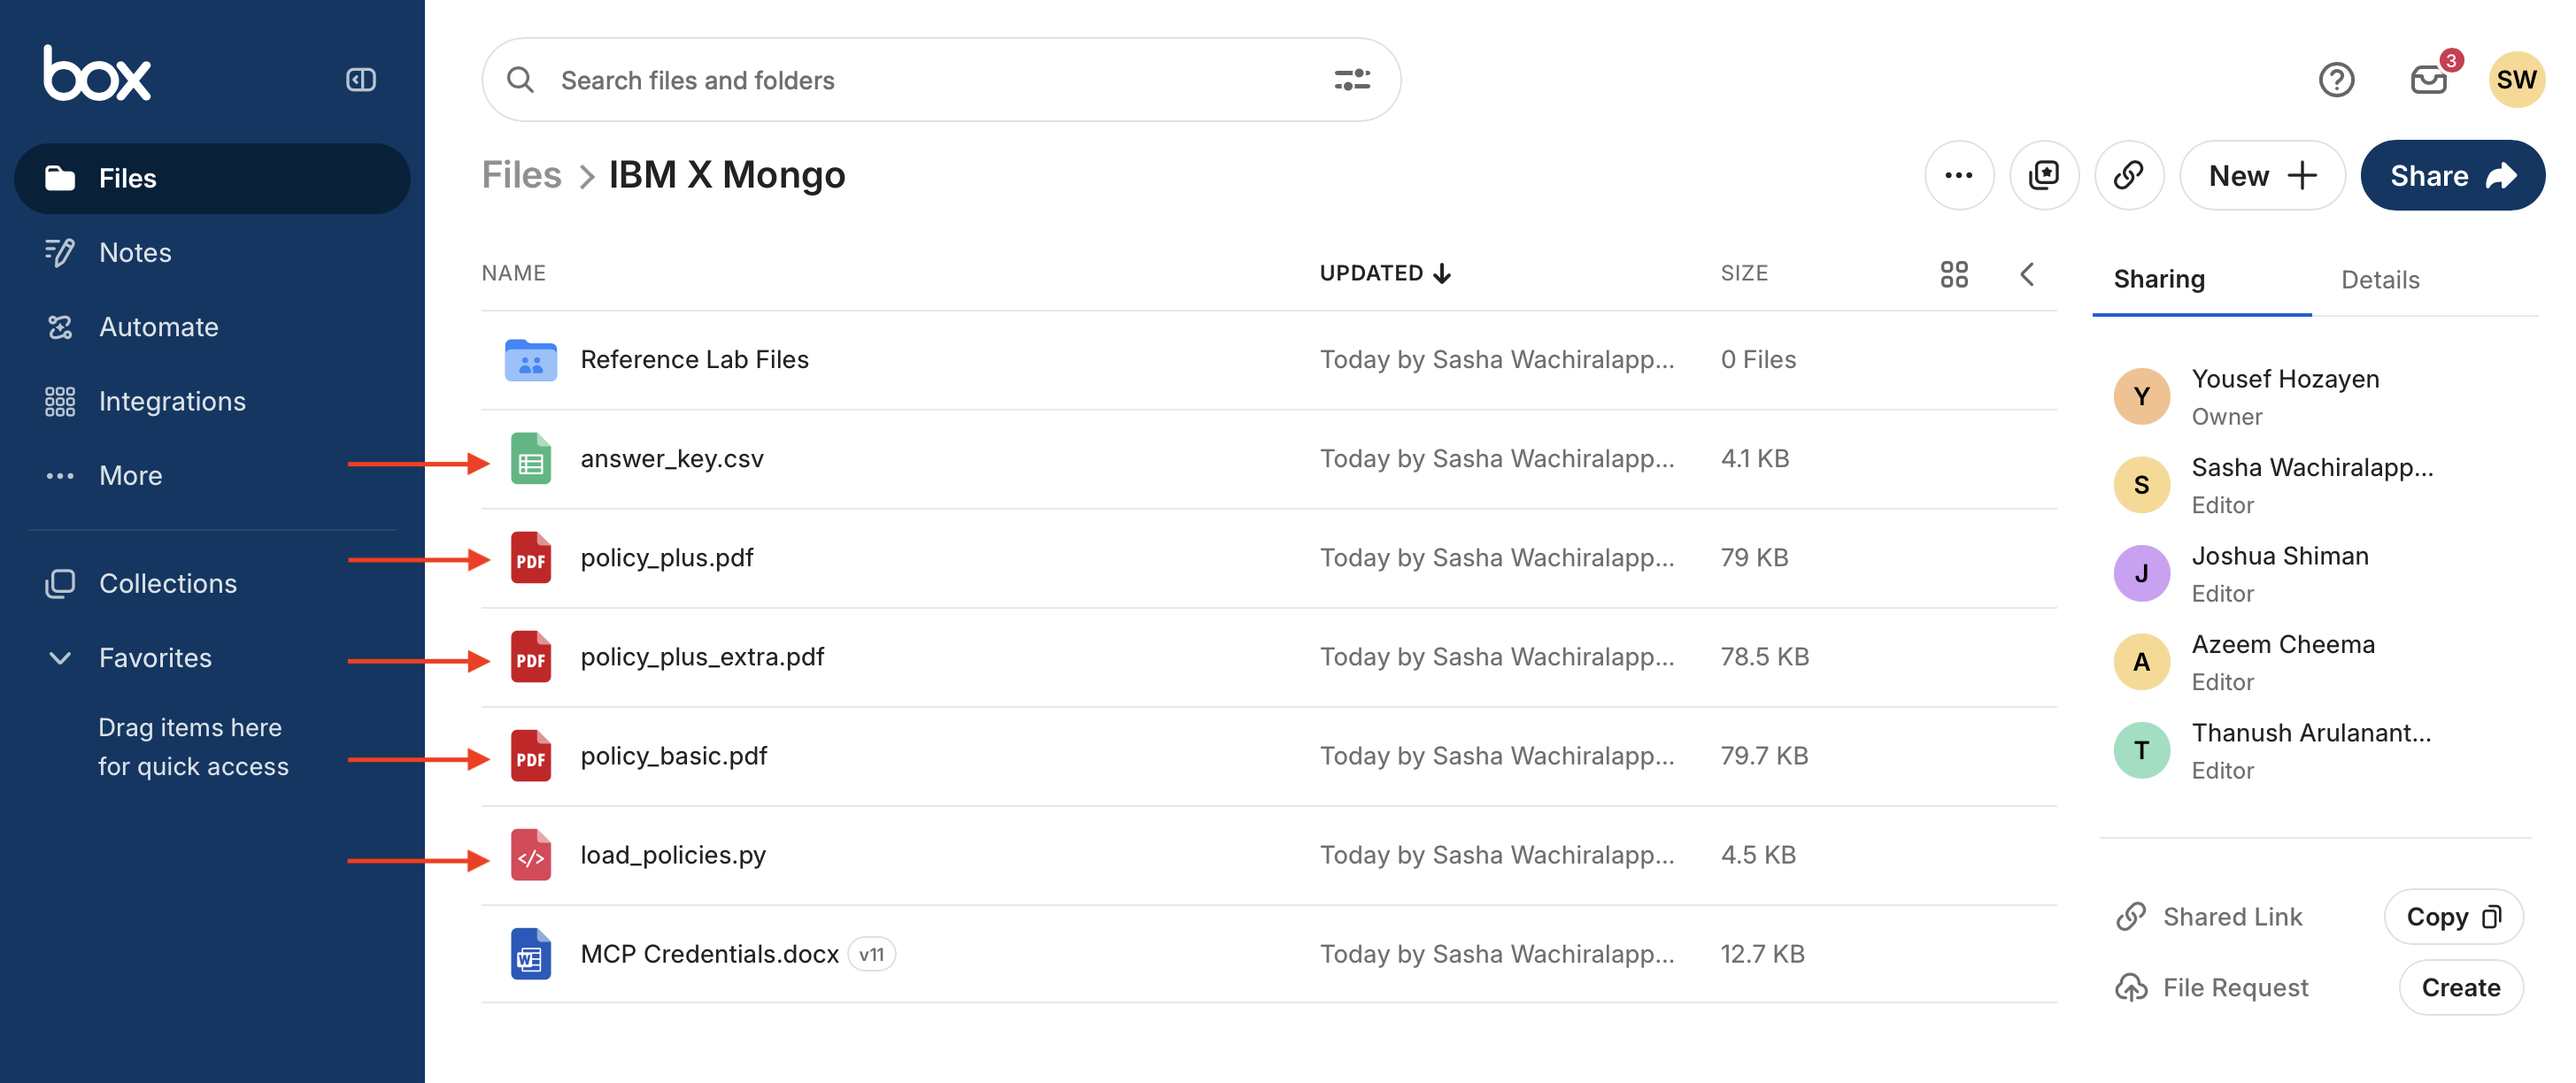
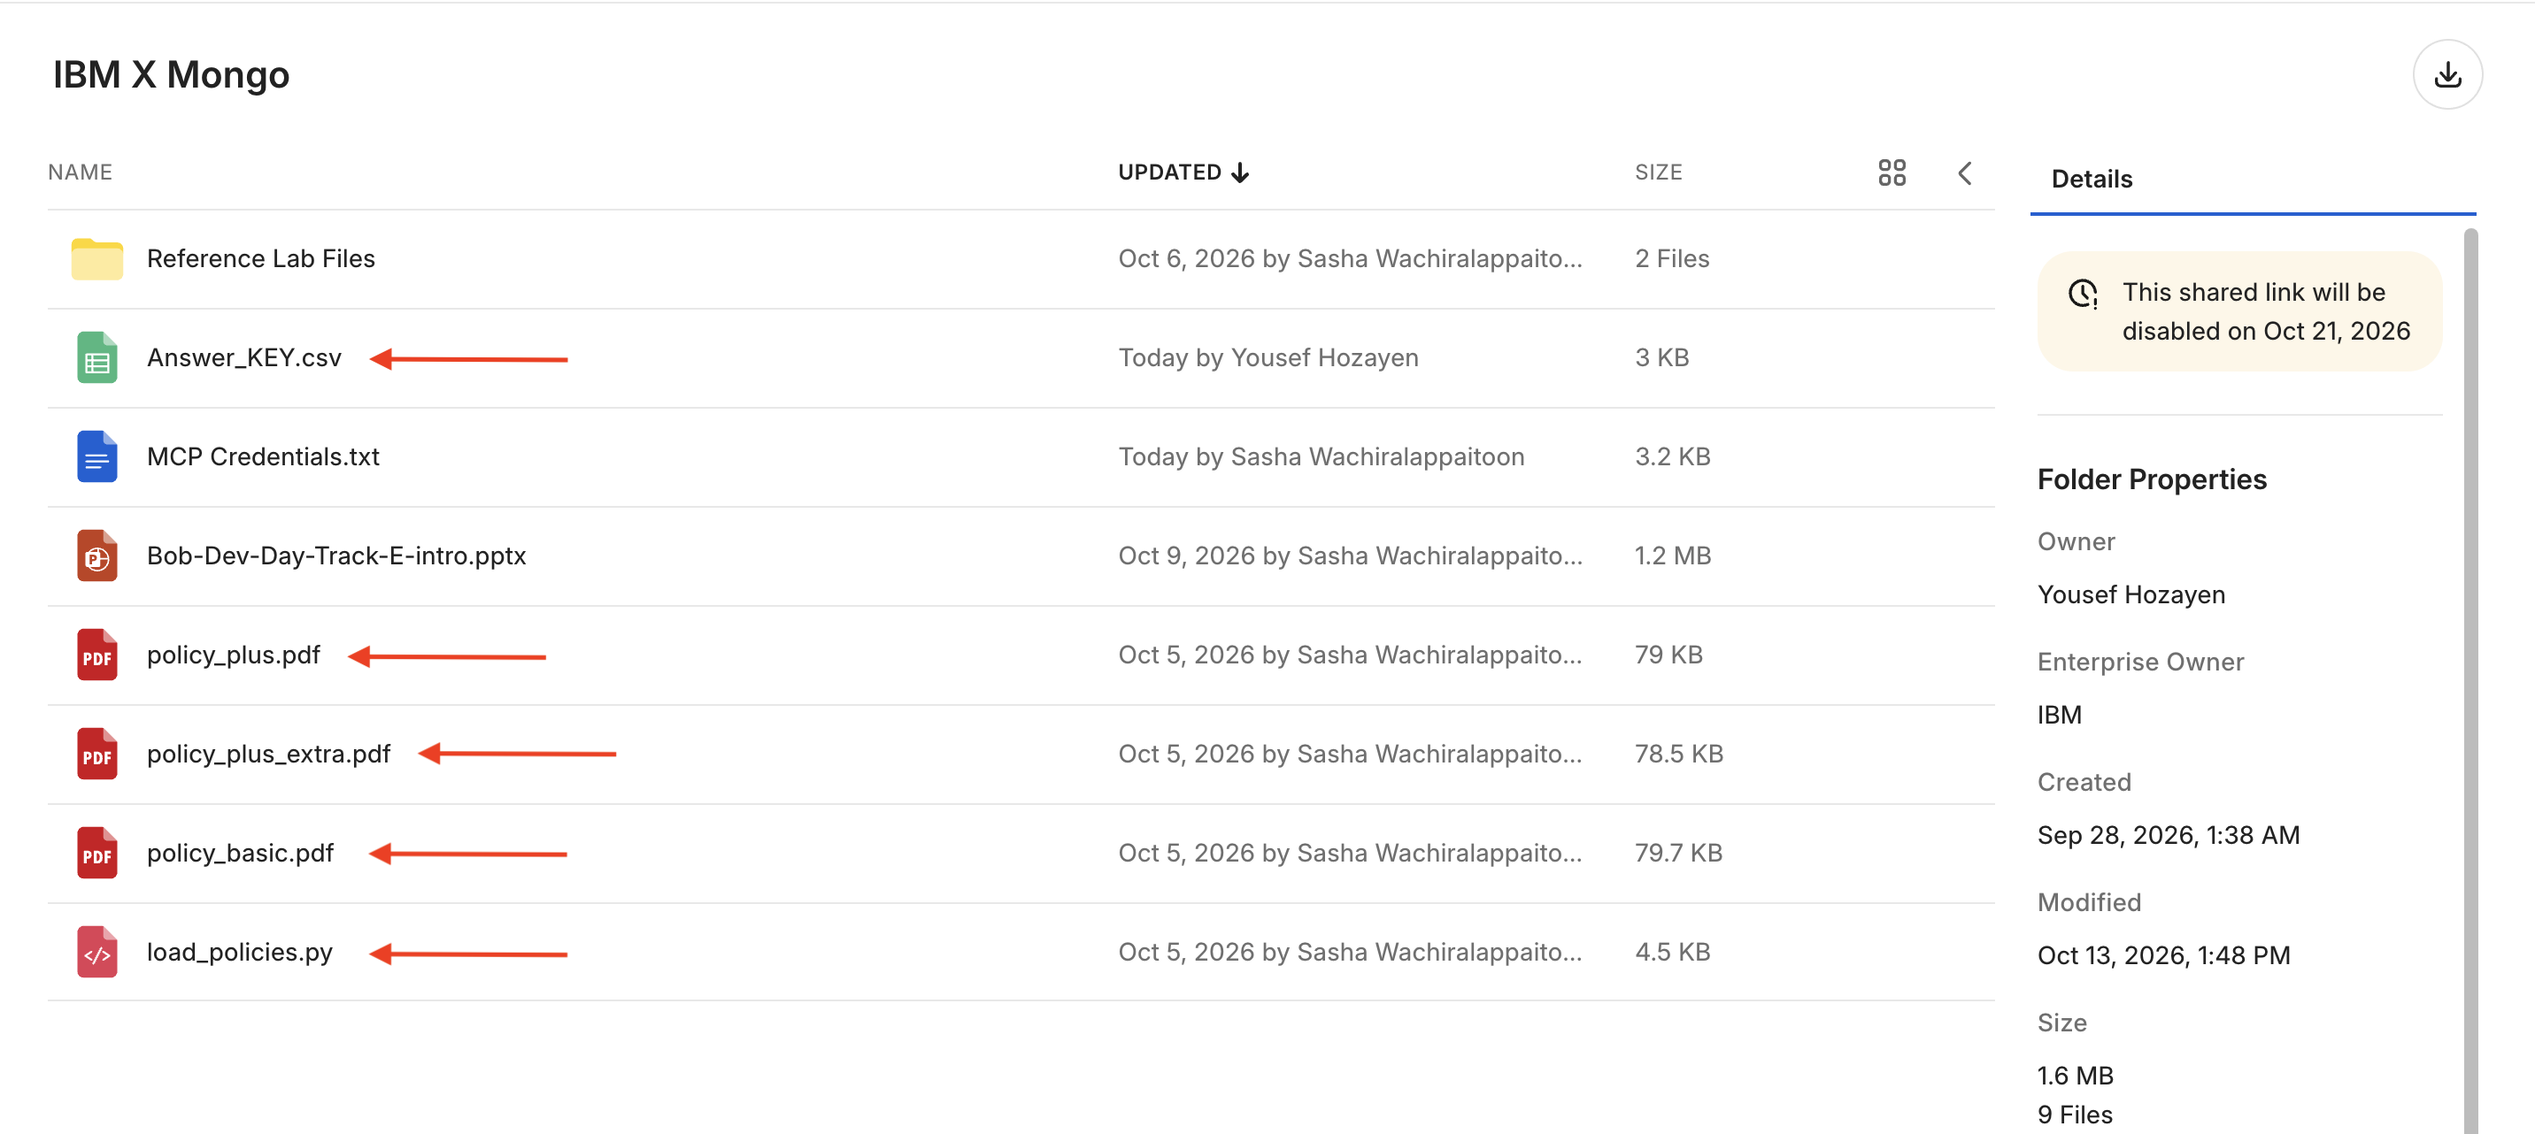
changes

diff --git a/index.html b/index.html
@@ -292,7 +292,7 @@
         <div class="ct">Workshop files — Box folder</div>
         <p>All workshop files live in the shared Box folder: <a class="inline" href="https://ibm.box.com/s/fucndm8mnk1ucyvphb2hf9xftfyl9z5g" target="_blank" rel="noopener">ibm.box.com/v/toronto-devday</a>. The folder is password protected; your instructor will give you the password on the day.</p>
         <figure class="shot" style="margin-top:10px;">
-          <img src="img/box.png" alt="IBM X Mongo Box folder showing policy PDFs, load_policies.py, answer_key.csv">
+          <img src="img/box-copy.png" alt="IBM X Mongo Box folder showing policy PDFs, load_policies.py, answer_key.csv">
           <figcaption>The <b>IBM X Mongo</b> Box folder — download each file individually.</figcaption>
         </figure>
       </div>
